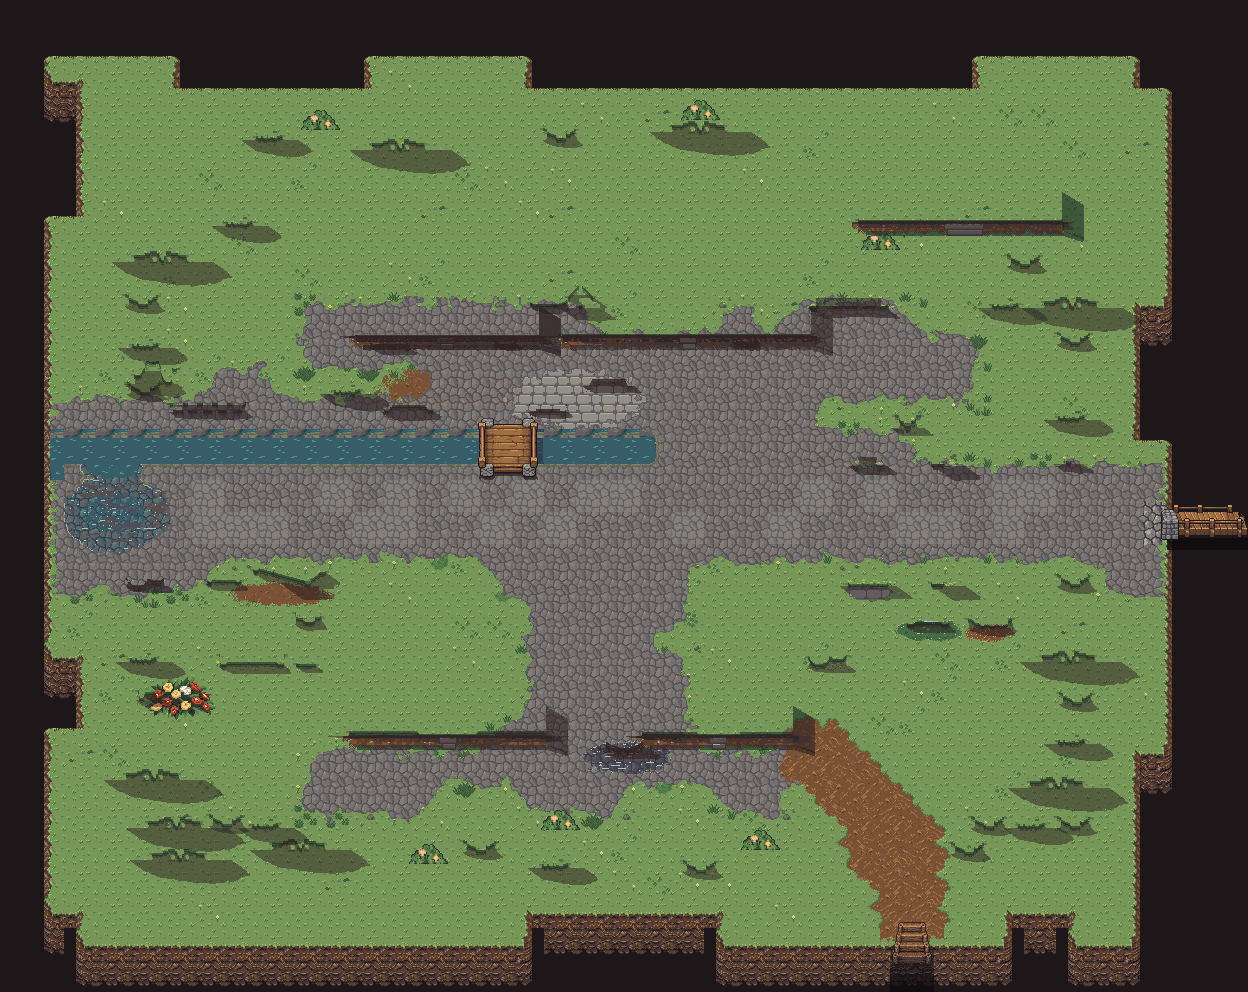
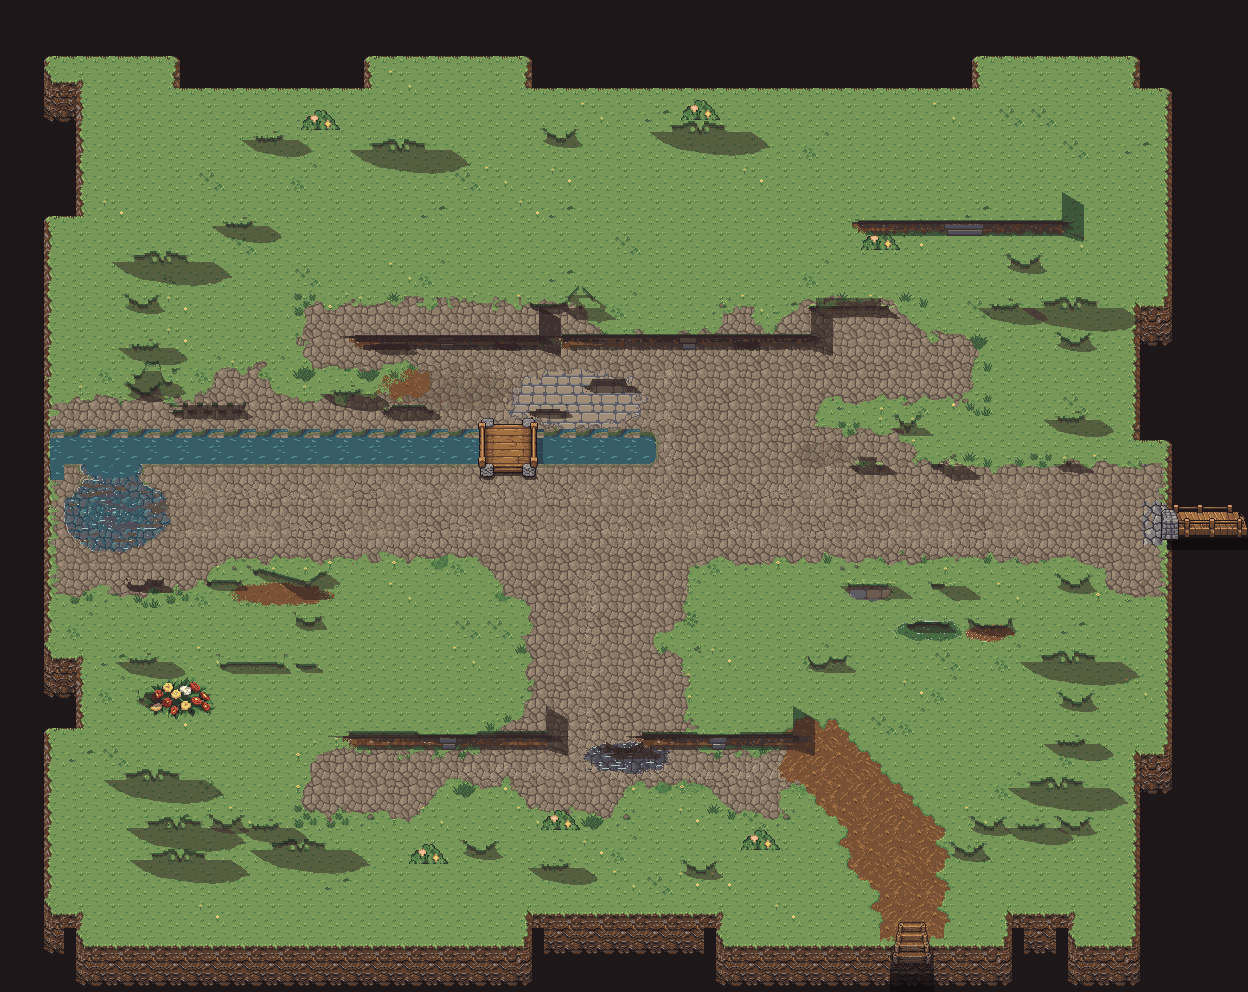
Warm Ba Dan's calmed paving and wear its paths
The calm pass had pulled the cobble to a flat, cold grey (owner: lifeless
beside the old cobble). The paving's mean is now warmed toward the art
bible's limestone and packed-earth family and the stone ramp with it,
the neutral greys moving to the slate ramp for plinths, the well and the
shrine; the stones' dark joints keep 0.62 of their contrast while the
faces keep 0.38, so it reads as cobble; and a faint, broad wear along
the plan's paths lifts the paving one ramp step. Plates repacked.

Claude-Session: https://claude.ai/code/session_01H8JDTPYztrZvUL5HBCK6eR

Changed region(s): [[0.0312, 0.2812, 0.9375, 0.8125], [0.0312, 0.4688, 0.0625, 0.5]]

diff --git a/scripts/art/topdown/boards/baDan.ts b/scripts/art/topdown/boards/baDan.ts
@@ -235,11 +235,16 @@ export interface GroundLook {
 
 /** The paving's quiet variants (`var_cobble`): no rubble, cracks or brown stones. */
 const CALM_COBBLE = [0, 1, 2, 3] as const;
+/** On the paving, the dark joints (this far below its mean) keep more contrast than the faces. */
+const JOINT_DEPTH = 10;
+const JOINT_CONTRAST = 0.62;
+/** The paving's mean is warmed by these per-channel factors: limestone and packed earth, not slate. */
+const PAVING_WARM = [1.13, 1.06, 0.92] as const;
 /** The grass's soft variants (`var_grass`): clover, a speck and flowers; no stones or big clumps. */
 const CALM_GRASS = [2, 3, 7, 12, 13] as const;
 /** How far each ground keeps its own contrast round its mean when calm (1 keeps it all). */
 const CALM_CONTRAST: Readonly<Partial<Record<number, number>>> = {
-  [CLASS.C]: 0.42,
+  [CLASS.C]: 0.38,
   [CLASS.G]: 0.72,
   [CLASS.D]: 0.75,
 };
@@ -776,6 +781,8 @@ export function bake(
 
   // 4b. calm: each ground's contrast drawn in toward its own mean (paving most, grass and earth less)
   if (look.calm) calmGround(d, classes);
+  // 4c. the worn lines along the plan's paths
+  if (look.calm && look.aprons) wearPaths(d, classes);
 
   // the clean ground, before any object is grounded: what a cast is measured against
   const clean: RgbaImage = { width: PW, height: PH, data: new Uint8ClampedArray(d) };
@@ -861,8 +868,11 @@ export function bake(
 }
 
 /**
- * Draws each soft ground's colours in toward that ground's mean, by its `CALM_CONTRAST`: the stones'
- * joints and highlights stay, quieter. Water, the cliff face and the void are left alone.
+ * Draws each soft ground's colours in toward that ground's mean, by its `CALM_CONTRAST`. On the paving
+ * the stones' dark joints keep more of their contrast than the faces' speckle (`JOINT_CONTRAST`), so
+ * it still reads as cobble, and its mean is warmed toward the art bible's limestone and packed-earth
+ * family (`PAVING_WARM`), so calm never means a cold grey fill. Water, the cliff face and the void are
+ * left alone.
  */
 function calmGround(d: Uint8ClampedArray, classes: Uint8Array): void {
   const sum = new Map<number, [number, number, number, number]>();
@@ -876,15 +886,82 @@ function calmGround(d: Uint8ClampedArray, classes: Uint8Array): void {
     s[3]++;
     sum.set(c, s);
   }
+  const means = new Map(
+    [...sum].map(([c, s]) => [c, [0, 1, 2].map((ch) => at(s, ch) / at(s, 3))] as const),
+  );
+  const paving = means.get(CLASS.C);
+  const pavingLum = paving ? 0.3 * at(paving, 0) + 0.59 * at(paving, 1) + 0.11 * at(paving, 2) : 0;
   for (let i = 0; i < classes.length; i++) {
     const c = classes[i] ?? CLASS.void,
-      k = CALM_CONTRAST[c],
-      s = sum.get(c);
-    if (k === undefined || !s) continue;
+      m = means.get(c);
+    let k = CALM_CONTRAST[c];
+    if (k === undefined || !m) continue;
+    if (c === CLASS.C && lum(d, i * 4) < pavingLum - JOINT_DEPTH) k = JOINT_CONTRAST;
     for (let ch = 0; ch < 3; ch++) {
-      const m = at(s, ch) / at(s, 3);
-      d[i * 4 + ch] = Math.round(m + (at(d, i * 4 + ch) - m) * k);
+      const mean = c === CLASS.C ? at(m, ch) * at(PAVING_WARM, ch) : at(m, ch);
+      d[i * 4 + ch] = Math.round(mean + (at(d, i * 4 + ch) - at(m, ch)) * k);
     }
+  }
+}
+
+/**
+ * The worn lines along the plan's paths (`BA_DAN_DRESSING_PLAN.paths`): where feet and wheels go, the
+ * paving is a step lighter (dust and polish) and the grass trodden toward earth. A broad, soft band
+ * (most of a cell wide, sparse at its edges) along each run of neighbouring path cells, its edge wandering on value noise, mixed
+ * in faintly, so it guides the eye without drawing a line.
+ */
+function wearPaths(d: Uint8ClampedArray, classes: Uint8Array): void {
+  const W = PLATE_W;
+  const segs: [number, number, number, number][] = [];
+  for (const path of BA_DAN_DRESSING_PLAN.paths)
+    path.cells.forEach((c, i) => {
+      const n = path.cells[i + 1];
+      if (n && Math.max(Math.abs(n.x - c.x), Math.abs(n.y - c.y)) === 1)
+        segs.push([
+          c.x * 40 + 20 - ORIGIN.x,
+          c.y * 40 + 20 - ORIGIN.y,
+          n.x * 40 + 20 - ORIGIN.x,
+          n.y * 40 + 20 - ORIGIN.y,
+        ]);
+    });
+  const dust = hex('#c2b296'),
+    trodden = hex(DIRT[2]);
+  const seen = new Uint8Array(PLATE_W * PLATE_H);
+  for (const [ax, ay, bx, by] of segs) {
+    const x0 = Math.min(ax, bx) - 26,
+      x1 = Math.max(ax, bx) + 26,
+      y0 = Math.min(ay, by) - 26,
+      y1 = Math.max(ay, by) + 26;
+    for (let y = y0; y <= y1; y++)
+      for (let x = x0; x <= x1; x++) {
+        const p = y * W + x;
+        if (seen[p]) continue;
+        const vx = bx - ax,
+          vy = by - ay,
+          t = Math.max(0, Math.min(1, ((x - ax) * vx + (y - ay) * vy) / (vx * vx + vy * vy || 1))),
+          // the line wanders off the cell centres on slow noise, so it never runs ruler straight
+          dist = Math.hypot(
+            x - ax - vx * t + vnoise(x, y, 141, 23) * 6,
+            y - ay - vy * t + vnoise(x, y, 143, 23) * 6,
+          );
+        const half = 17 + vnoise(x, y, 131, 13) * 5;
+        if (dist > half) continue;
+        seen[p] = 1;
+        const cls = classes[p],
+          core = 1 - dist / half;
+        const i = p * 4,
+          here: Rgb = [at(d, i), at(d, i + 1), at(d, i + 2)];
+        let out: Rgb | null = null;
+        // one ramp step lighter in the band's core, broken toward its edge, so the palette lock keeps it
+        if (cls === CLASS.C && hash2(x, y, 139) < 0.42 * core * core) out = mix(here, dust, 0.4);
+        else if (cls === CLASS.G && hash2(x, y, 137) < 0.25 + 0.5 * core)
+          out = mix(here, trodden, 0.35);
+        if (out) {
+          d[i] = out[0];
+          d[i + 1] = out[1];
+          d[i + 2] = out[2];
+        }
+      }
   }
 }
 

diff --git a/scripts/art/topdown/palettes/baDan.ts b/scripts/art/topdown/palettes/baDan.ts
@@ -5,7 +5,8 @@
  * pixel count so the small objects count beside the acres of grass), then tidied by hand into
  * ramps: near-duplicates merged, the void's four blacks cut to two, a stone highlight, a white, a
  * water glint and a cool slate ramp for the dressed stone added (without it the plinths' cool greys
- * fell to the water's blue).
+ * fell to the water's blue). The stone ramp was then warmed toward limestone and packed earth, after
+ * the pilot's first bake read cold (owner, 2026-11-17).
  *
  * The board's bake remaps every plate and upright pixel to its nearest colour here (OKLab, no
  * dithering). Characters are never remapped. The shadow tone `#322125` is in the ink ramp, so the
@@ -14,20 +15,26 @@
 export const BA_DAN_RAMPS = {
   /** The void, the darkest outlines, and the hard shadow tone. */
   ink: ['#110c0e', '#1d1719', '#322125'],
-  /** Cobble, plinths, flags, the well and the shrine: warm greys. */
+  /**
+   * The paving and the flags: warm grey-brown, toward the art bible's limestone (`#d8cbb0`) and packed
+   * earth (`#b39064`). Warmed by hand after the pilot's first bake read cold and lifeless (owner, 2026-11-17).
+   */
   stone: [
-    '#3e3234',
-    '#4c4241',
-    '#564e4c',
-    '#635f60',
-    '#77726f',
-    '#857f7a',
-    '#938e86',
-    '#acaba2',
-    '#c8c3b6',
+    '#3d3230',
+    '#4b3f38',
+    '#5b4d43',
+    '#6b5c4f',
+    '#7c6c5c',
+    '#8d7c69',
+    '#9f8d77',
+    '#b3a289',
+    '#cbbda2',
   ],
-  /** The plinths' and kerbs' cooler dressed stone (the baker's own `STONE` ramp), kept off the water. */
-  slate: ['#3e3d47', '#4f4e58', '#5d5b63', '#706e77'],
+  /**
+   * The dressed stone of plinths, kerbs, the well and the shrine: neutral to cool greys (the baker's own
+   * `STONE` ramp and the old cobble's mid and light), kept off both the water and the warm paving.
+   */
+  slate: ['#3e3d47', '#4f4e58', '#5d5b63', '#706e77', '#85807f', '#aea89c'],
   /** Earth, timber and thatch-browns: the aprons, doors, carts, barrels and crates. */
   wood: [
     '#312626',
